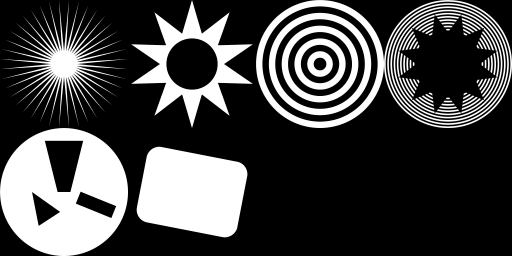
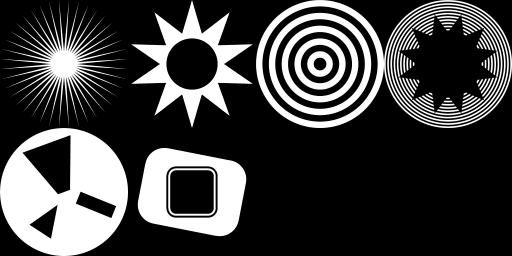
fixed bugs with "deep booleans"
I don't know why I thought I could do stack ops without a stack...

diff --git a/rzr.c b/rzr.c
@@ -1108,8 +1108,6 @@ static void render(struct rzr* rzr, struct scratch* SCRATCHP, int stride, uint8_
 
 		struct xop {
 			int opcode;
-			int result_span_offset;
-			int result_n_spans;
 			union {
 				struct {
 					int cx,cy,radius;
@@ -1266,8 +1264,6 @@ static void render(struct rzr* rzr, struct scratch* SCRATCHP, int stride, uint8_
 
 					if (xop != NULL) {
 						xop->opcode = op->code;
-						xop->result_span_offset = -1;
-						xop->result_n_spans = -1;
 					}
 
 					cursor = -1;
@@ -1281,6 +1277,11 @@ static void render(struct rzr* rzr, struct scratch* SCRATCHP, int stride, uint8_
 				assert(0 <= yy && yy < rzr->height);
 				if (y_render_min == -1 || yy < y_render_min) y_render_min = yy;
 				if (y_render_max == -1 || yy > y_render_max) y_render_max = yy;
+
+				struct rlist { int offset,count; };
+				const int rstack_cap = 1<<13;
+				int rstack_height = 0;
+				struct rlist rstack[rstack_cap];
 
 				#define NSPAN(N,SPAN0) \
 				{ \
@@ -1301,8 +1302,7 @@ static void render(struct rzr* rzr, struct scratch* SCRATCHP, int stride, uint8_
 
 				for (int xpc = 0; xpc < n_xop; xpc++) {
 					struct xop* xop = &xops[xpc];
-					xop->result_n_spans = -1;
-					xop->result_span_offset = SCRATCH_TAIL_OFFSET();
+					const int offset0 = SCRATCH_TAIL_OFFSET();
 					switch (xop->opcode) {
 
 					case RZROP_CIRCLE: {
@@ -1319,7 +1319,6 @@ static void render(struct rzr* rzr, struct scratch* SCRATCHP, int stride, uint8_
 							.x = cx-dx+1,
 							.w = dx+dx-1,
 						};
-						xop->result_n_spans = 1;
 						NSPAN(1, &span);
 					}	break;
 
@@ -1337,7 +1336,6 @@ static void render(struct rzr* rzr, struct scratch* SCRATCHP, int stride, uint8_
 						const int xspan_offset = ps->xspan_offset;
 						const int xspan_count = ps->xspan_count;
 
-						int offset0 = SCRATCH_TAIL_OFFSET();
 						for (int si = 0; si < xspan_count; si++) {
 							struct xspan_state* xs = &xspan_states_stor[xspan_offset+si];
 							while (xs->y <= y) {
@@ -1359,54 +1357,44 @@ static void render(struct rzr* rzr, struct scratch* SCRATCHP, int stride, uint8_
 								xs->y++;
 							}
 						}
-						xop->result_n_spans = SCRATCH_TAIL_OFFSET() - offset0;
 
 					}	break;
 
 					case RZROP_UNION:
 					case RZROP_DIFFERENCE:
 					case RZROP_INTERSECTION: {
-						const int ia = xpc-2;
-						const int ib = xpc-1;
-						assert(ia >= 0);
-						assert(ib >= 0);
-						struct xop* xa = &xops[ia];
-						struct xop* xb = &xops[ib];
-						const int na = xa->result_n_spans;
-						const int nb = xb->result_n_spans;
-						struct span* aa = span_stor + xa->result_span_offset;
-						struct span* bb = span_stor + xb->result_span_offset;
-						xop->result_n_spans = spanlist_binop(xop->opcode, SCRATCH_AT(), SCRATCH_TAIL_REMAINING(), na, aa, nb, bb);
-						SCRATCH_TAIL_YANK(xop->result_n_spans);
+						assert(rstack_height >= 2);
+						struct rlist rb = rstack[--rstack_height];
+						struct rlist ra = rstack[--rstack_height];
+						struct span* aa = span_stor + ra.offset;
+						struct span* bb = span_stor + rb.offset;
+						const int nr = spanlist_binop(xop->opcode, SCRATCH_AT(), SCRATCH_TAIL_REMAINING(), ra.count, aa, rb.count, bb);
+						SCRATCH_TAIL_YANK(nr);
 					}	break;
 
 					default: assert(!"unhandled case");
 					}
-					assert(xop->result_n_spans >= 0);
-					for (int i = 0; i < xop->result_n_spans; i++) {
-						struct span s = span_stor[xop->result_span_offset+i];
+
+					const int nspans = SCRATCH_TAIL_OFFSET() - offset0;
+					for (int i = 0; i < nspans; i++) {
+						struct span s = span_stor[offset0+i];
 						assert(s.x >= 0);
-						if (!(s.w > 0)) {
-							printf("uh oh opcode %d\n", xop->opcode);
-						}
 						assert(s.w > 0);
 						assert(s.x+s.w <= width_subpix);
 					}
+					assert(rstack_height < rstack_cap);
+					struct rlist* rl = &rstack[rstack_height++];
+					rl->offset = offset0;
+					rl->count = nspans;
 				}
 
-				struct xop* rx = &xops[n_xop-1];
-				#if 0
-				printf("n spans: %d\n", rx->result_n_spans);
-				for (int i = 0; i < rx->result_n_spans; i++) {
-					struct span* span = span_stor + rx->result_span_offset + i;
-					printf("   [%d,%d]\n", span->x, span->x+span->w);
-				}
-				#endif
+				assert(rstack_height > 0);
+				struct rlist rx = rstack[--rstack_height];
 
 				assert(0 <= sub_scanline_i && sub_scanline_i < supsamp);
 				struct spanline* ssc = &sub_scanlines[sub_scanline_i];
-				ssc->spans = span_stor + rx->result_span_offset;
-				ssc->n = rx->result_n_spans;
+				ssc->spans = span_stor + rx.offset;
+				ssc->n = rx.count;
 
 				//printf("render y=%d / %d str=%d\n", y, y/supsamp, stride);
 				ppix = pixels + yy * stride;
@@ -2228,6 +2216,8 @@ static struct {
 	#error "TEST_MEMERROR or TEST_PERFORMANCE must be defined"
 	#endif
 
+	double t0;
+
 	// anim
 	int anim_n_frames, anim_n_frames_remaining;
 	int anim_width, anim_height;
@@ -2235,7 +2225,6 @@ static struct {
 	int anim_supersampling_factor;
 	uint8_t* anim_data;
 	uint8_t* anim_p;
-	double anim_t0;
 
 	// tile
 	int tile_width, tile_height, tile_stride;
@@ -2292,6 +2281,7 @@ static void begin_tiles(int width, int height, int n_columns, int n_rows)
 	g.tile_n_rows = n_rows;
 	g.tile_cursor = 0;
 	g.tile_bitmap = calloc(width*n_columns*height*n_rows, 1);
+	g.t0 = tim();
 }
 
 static struct rzr* begin_tile(float pixels_per_unit, int supersampling_factor)
@@ -2316,10 +2306,12 @@ static void end_tile(void)
 
 static void end_tiles(const char* path)
 {
+	const double dt = tim() - g.t0;
 	if (path != NULL) {
 		assert(stbi_write_png(path, g.tile_stride, g.tile_height*g.tile_n_rows, 1, g.tile_bitmap, g.tile_stride));
-		printf("Wrote %s\n", path);
+		printf("Wrote %s; ", path);
 	}
+	printf("render took %.5fs\n", dt);
 	free(g.tile_bitmap);
 }
 
@@ -2357,7 +2349,7 @@ static void begin_anim(int n_frames, int width, int height, float pixels_per_uni
 	g.anim_supersampling_factor =  supersampling_factor;
 	g.anim_data = malloc(n_frames*width*height);
 	g.anim_p = g.anim_data;
-	g.anim_t0 = tim();
+	g.t0 = tim();
 }
 
 static struct rzr* begin_frame(void)
@@ -2390,7 +2382,7 @@ static void end_frame(void)
 static void end_anim(const char* path)
 {
 	assert(g.anim_n_frames_remaining == 0);
-	const double dt = tim() - g.anim_t0;
+	const double dt = tim() - g.t0;
 
 	uint8_t* rgba = malloc(4*g.anim_width*g.anim_height);
 	MsfGifState gs = {};
@@ -2426,6 +2418,7 @@ static void end_anim(const char* path)
 
 int main(int argc, char** argv)
 {
+	#if 1
 	{
 		const int S = 512;
 		struct rzr* rzr = begin_render(S, S, S/2, 16);
@@ -2451,7 +2444,9 @@ int main(int argc, char** argv)
 		}
 		end_render("_rzrdemo_sharp.png");
 	}
+	#endif
 
+	#if 1
 	{
 		const int S = 128;
 		begin_tiles(S, S, 4, 2);
@@ -2493,14 +2488,14 @@ int main(int argc, char** argv)
 			struct rzr* rzr = begin_tile(S/2, 16);
 			Circle(1.0);
 			Save();
-			Translate(-0.5,0);
-			Rotate(-33);
+			Translate(-0.1,0.2);
+			Rotate(33);
 			IsoscelesTriangle(0.2, 0.5);
 			Difference();
 			Restore();
 			Save();
-			Rotate(180);
-			IsoscelesTrapezoid(0.1,0.3,0.8);
+			Rotate(160);
+			IsoscelesTrapezoid(0.1,0.4,0.8);
 			Difference();
 			Restore();
 			Save();
@@ -2515,23 +2510,18 @@ int main(int argc, char** argv)
 			struct rzr* rzr = begin_tile(S/2, 16);
 			Save();
 			Rotate(11);
-			RoundedBox(0.8,0.6,0.2);
-			Restore();
-			end_tile();
-		}
-		#if 0
-		{
-			// FIXME
-			struct rzr* rzr = begin_tile(S/2, 16);
-			Save();
-			Rotate(11);
-			RoundedBox(0.8,0.6,0.2);
-			RoundedBox(0.4,0.4,0.1);
+			RoundedBox(0.8,0.6,0.3);
+			Rotate(-11);
+			RoundedBox(0.4,0.4,0.15);
+			Difference();
+			const float d = 0.03f;
+			RoundedBox(0.4-d,0.4-d,0.15-d);
+			Union();
+			RoundedBox(0.4-2*d,0.4-2*d,0.15-2*d);
 			Difference();
 			Restore();
 			end_tile();
 		}
-		#endif
 		#if 0
 		{
 			// TODO/FIXME
@@ -2546,7 +2536,9 @@ int main(int argc, char** argv)
 		#endif
 		end_tiles("_rzrdemo_zoo.png");
 	}
+	#endif
 
+	#if 1
 	{
 		const int NFRAM = 200;
 		const int S = 128;
@@ -2594,6 +2586,7 @@ int main(int argc, char** argv)
 		}
 		end_anim("_rzrdemo_trirot.gif");
 	}
+	#endif
 
 	return EXIT_SUCCESS;
 }

diff --git a/rzr.h b/rzr.h
@@ -5,8 +5,6 @@ TODO:
  - MxN (borders/crosses rendered using point queries?)
  - allow out-of-memory errors without crashing?
 FIXME:
- - difference between two rounded boxes is not working (booleans are probably
-   broken in general)
  - A circle precalcs/stores a number of values equal to its subpixel radius
    regardless of image size.
 */
@@ -35,14 +33,14 @@ enum rzr_op_code {
 	//RZROP_ZERO,
 	//RZROP_ONE,
 
-	RZROP_POLY,
+	RZROP_POLY, // 3
 	RZROP_VERTEX,
 
-	RZROP_CIRCLE,
+	RZROP_CIRCLE, // 5
 
-	RZROP_UNION,
+	RZROP_UNION, // 6
 	RZROP_INTERSECTION,
-	RZROP_DIFFERENCE,
+	RZROP_DIFFERENCE, // 8
 
 	RZROP_END,
 };
